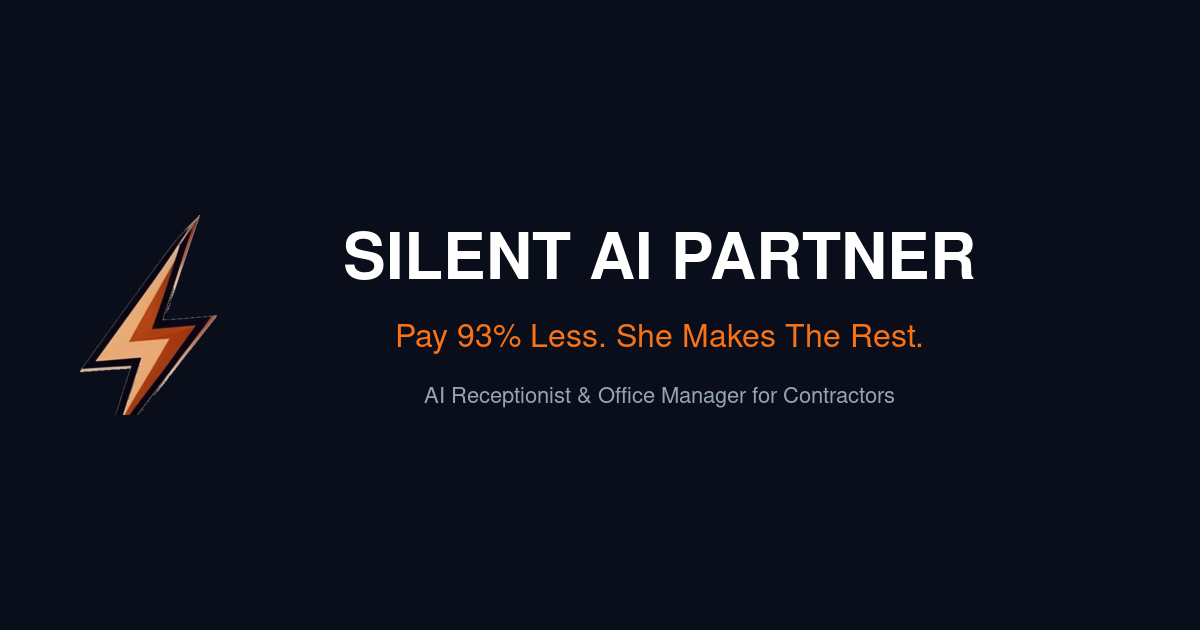
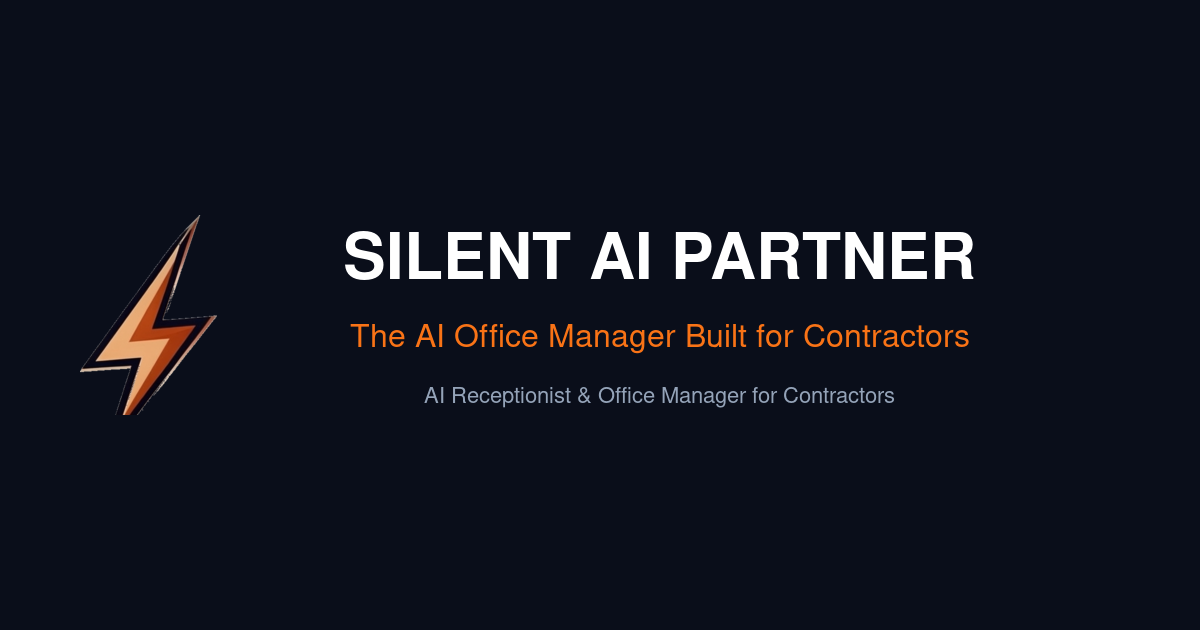
OG tagline: The AI Office Manager Built for Contractors

Changed region(s): [[0.2775, 0.5127, 0.8017, 0.573]]

diff --git a/src/app/layout.tsx b/src/app/layout.tsx
@@ -23,7 +23,7 @@ export const metadata: Metadata = {
   description: "AI that answers your phones, books your jobs, and runs 90% of your business. 24/7 call answering, appointment booking, and lead capture for plumbers, HVAC, electricians, and more service businesses.",
   keywords: "AI receptionist, contractor phone service, automated appointment booking, missed call solution, plumber answering service, HVAC phone service, electrician call service",
   openGraph: {
-    title: "Silent AI Partner — Pay 93% Less. She Makes The Rest.",
+    title: "Silent AI Partner — The AI Office Manager Built for Contractors",
     description: "AI Receptionist & Office Manager for Contractors. Answers every call 24/7, books jobs, upsells services, and runs your office. Starting at $197/mo.",
     type: "website",
     url: "https://silentaipartner.com",
@@ -38,7 +38,7 @@ export const metadata: Metadata = {
   },
   twitter: {
     card: "summary_large_image",
-    title: "Silent AI Partner — Pay 93% Less. She Makes The Rest.",
+    title: "Silent AI Partner — The AI Office Manager Built for Contractors",
     description: "AI Receptionist & Office Manager for Contractors. Starting at $197/mo. Try the demo now.",
     images: ["https://silentaipartner.com/og-image.png"],
   },
